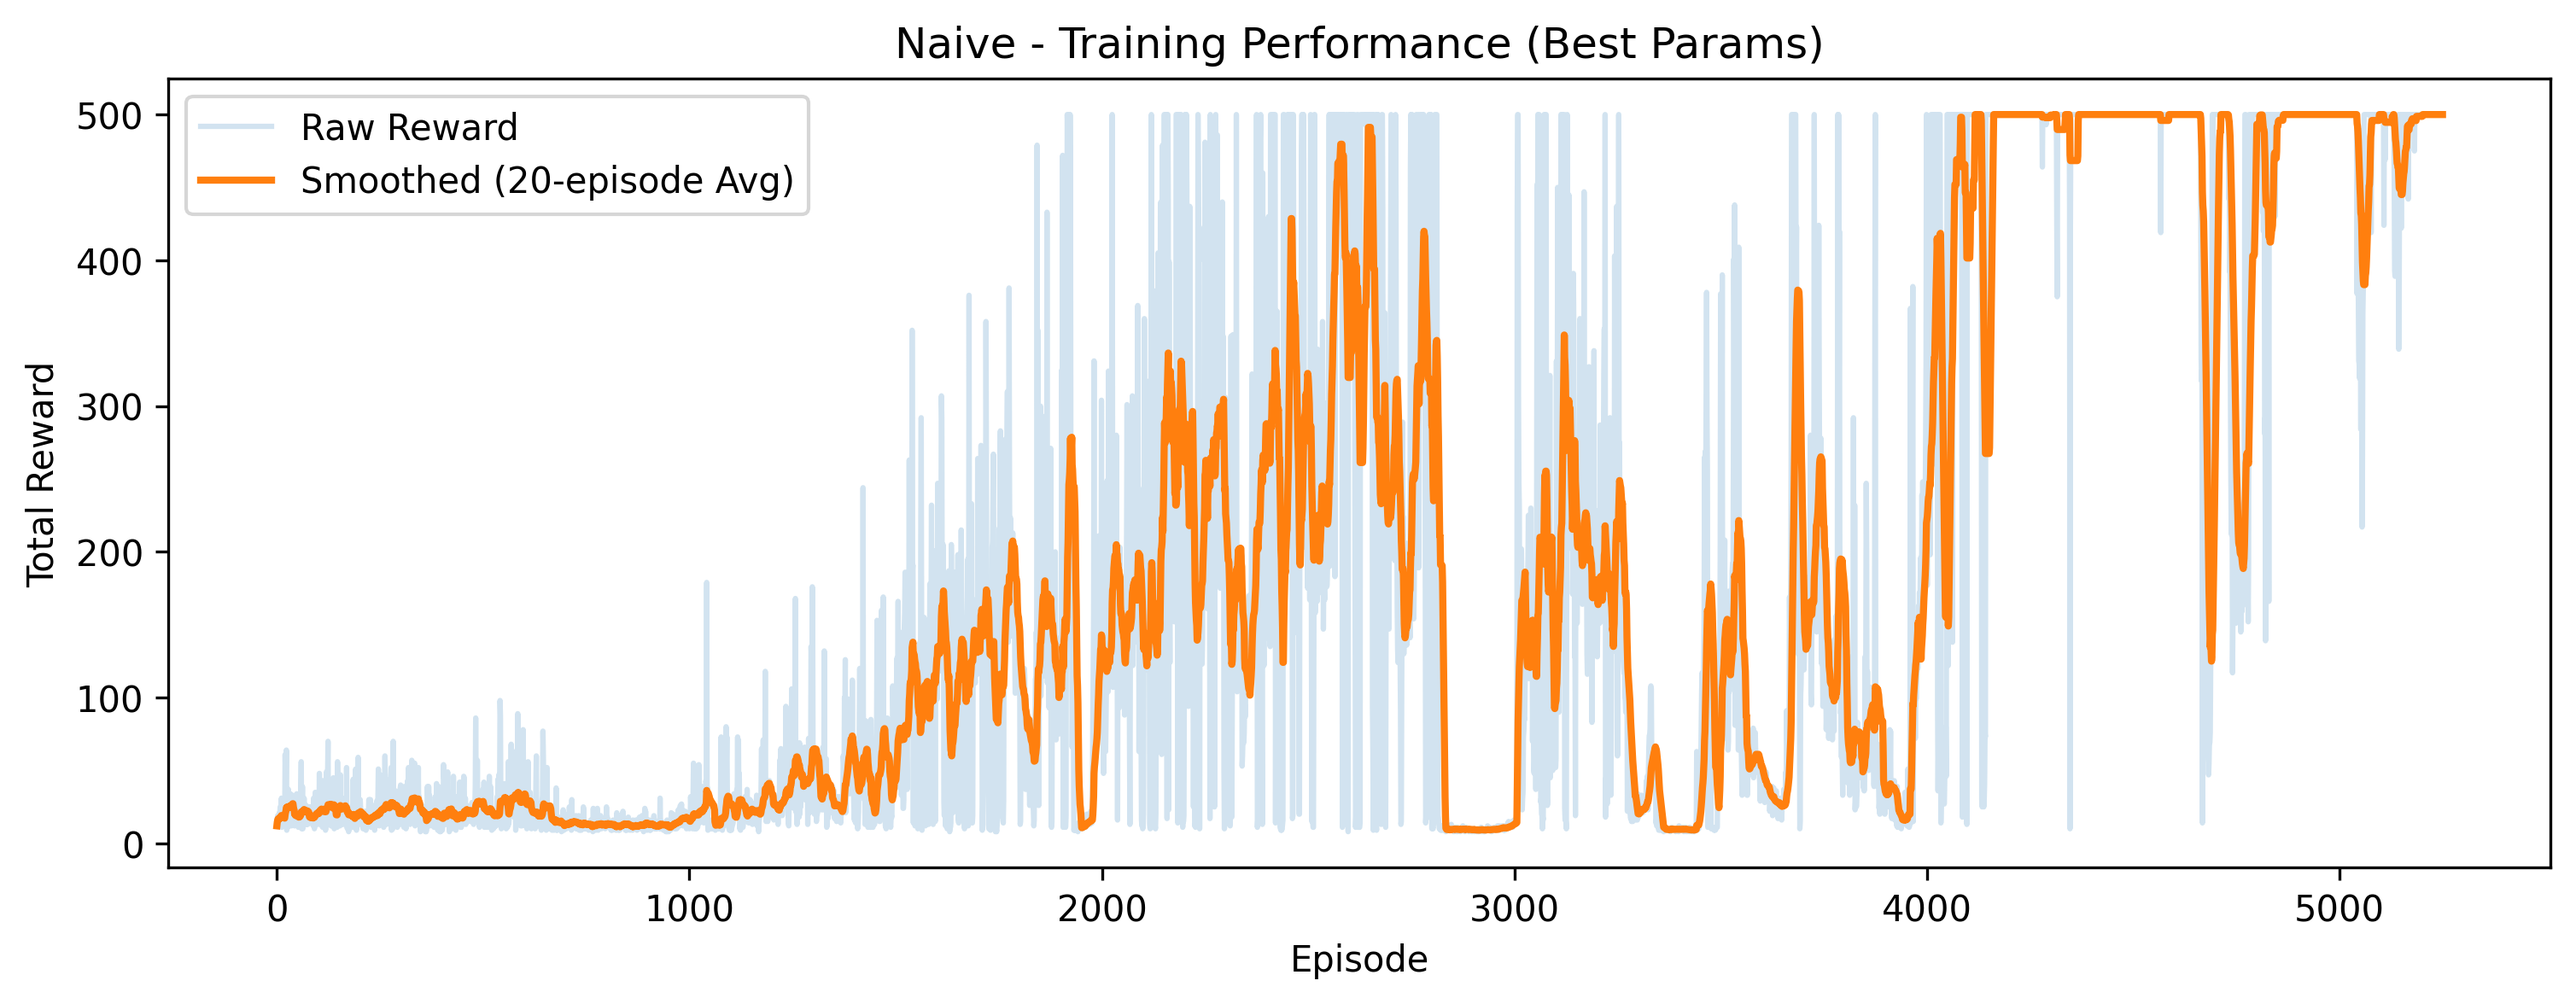
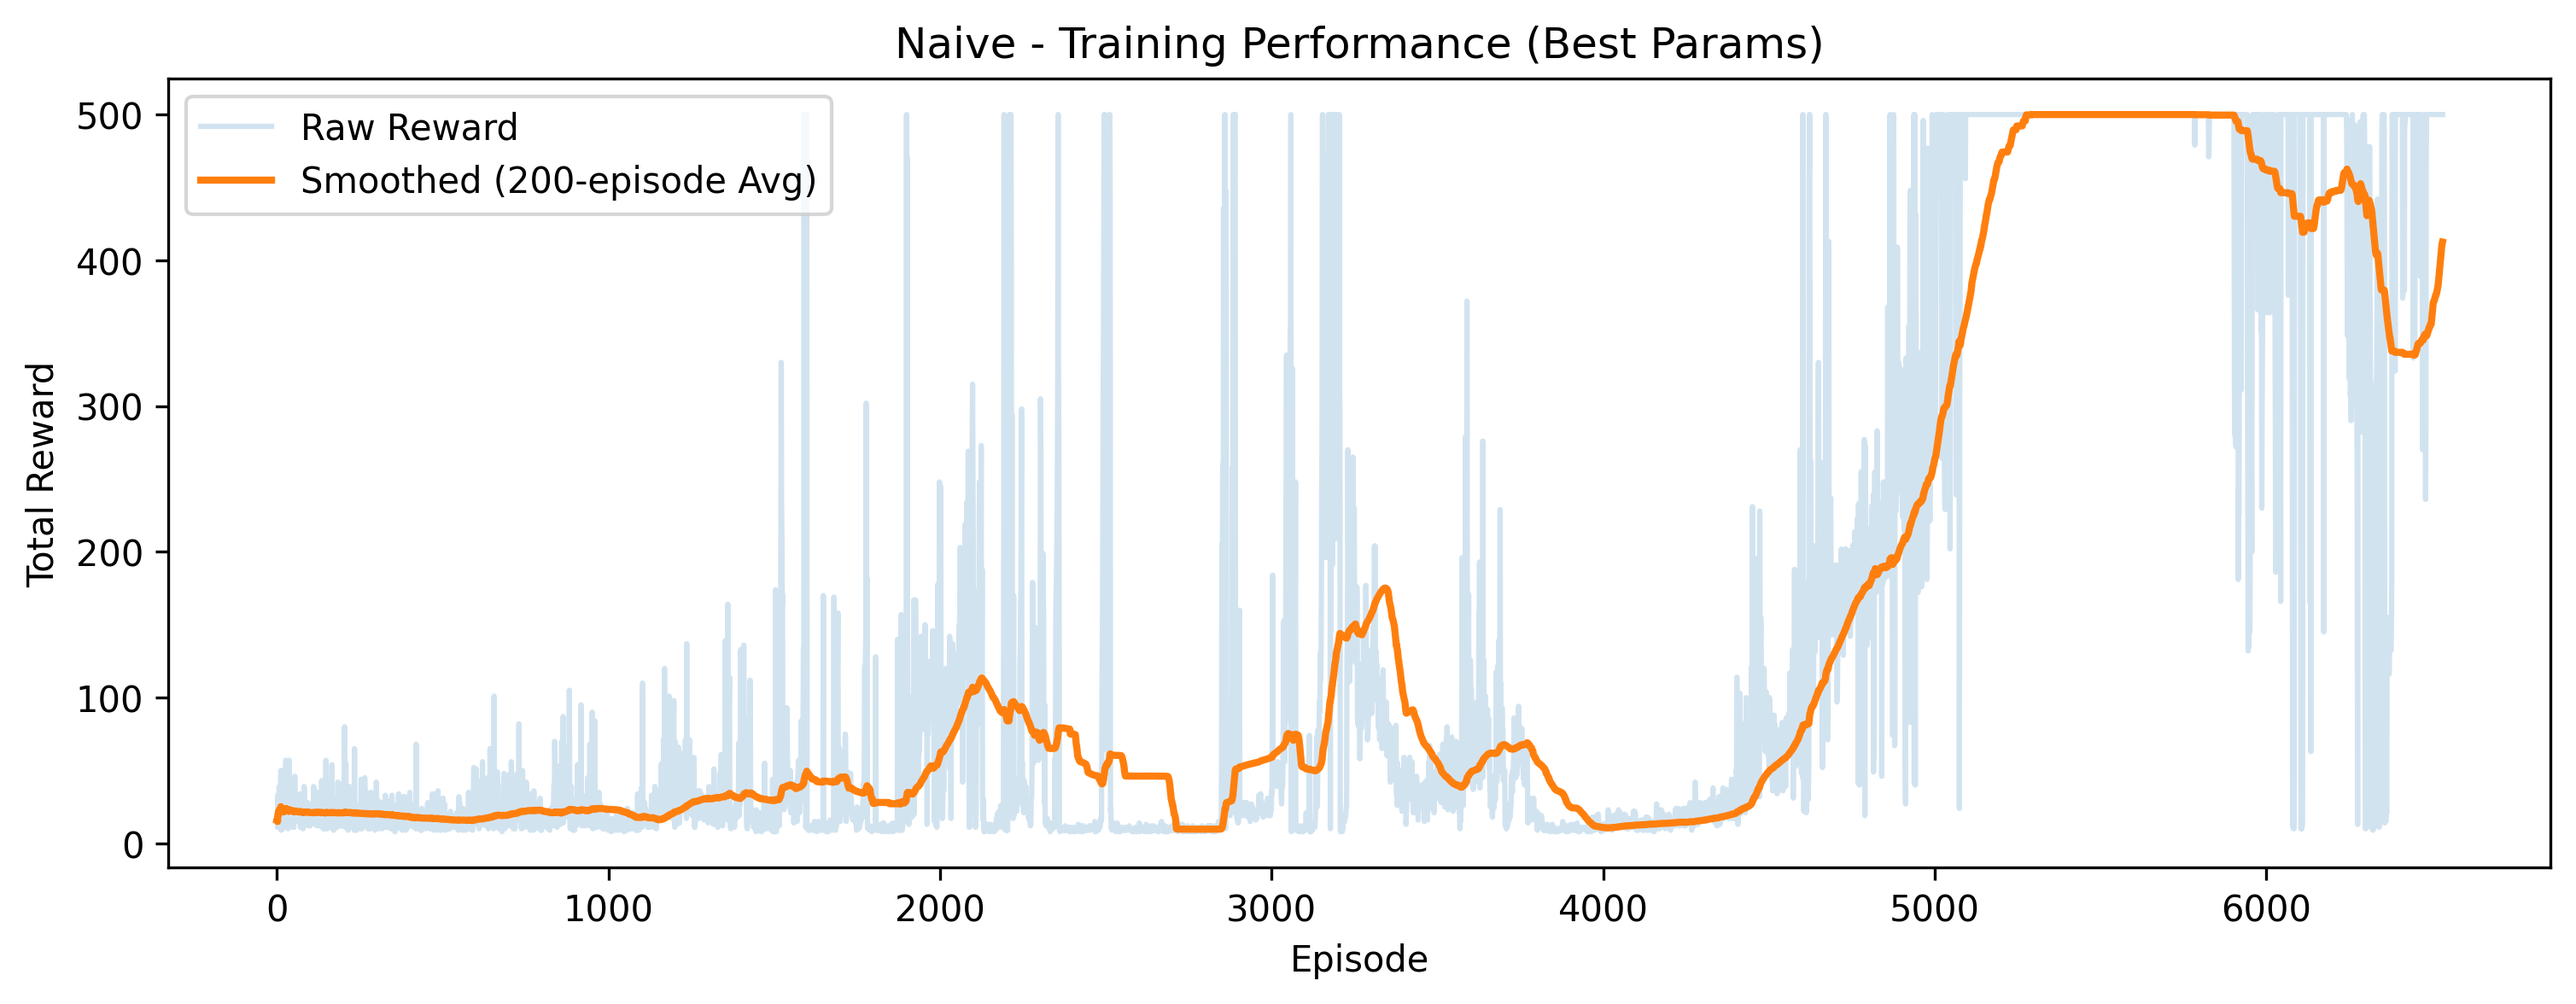
初始版本

diff --git a/TN_ER_run.py b/TN_ER_run.py
@@ -22,7 +22,7 @@ def train(config_name, use_target_net=False, use_replay_buffer=False):
         gamma=0.99,
         batch_size=128,
         buffer_size=10_000,
-        tau=0.01,                # 目标网络软更新系数
+        tau=0.1,                # 目标网络软更新系数
         epsilon_decay=0.999,      # 最佳ε衰减率
         epsilon_min=0.01,
         update_interval=4         # 最佳更新间隔（每4步更新一次）
@@ -58,7 +58,7 @@ def train(config_name, use_target_net=False, use_replay_buffer=False):
 
             # 定期打印进度（每10,000步）
             if step_count % 10_000 == 0:
-                current_avg = np.mean(episode_rewards[-20:]) if episode_rewards else 0
+                current_avg = np.mean(episode_rewards[-200:]) if episode_rewards else 0
                 print(f"{config_name} | Step {step_count} | Ep {episode} | ε={agent.epsilon:.3f} | Avg Reward={current_avg:.1f}")
 
         # 每个episode结束时更新ε
@@ -66,7 +66,7 @@ def train(config_name, use_target_net=False, use_replay_buffer=False):
 
         # 记录奖励并计算滑动平均
         episode_rewards.append(total_reward)
-        window_size = 20
+        window_size = 200
         avg = np.mean(episode_rewards[-window_size:]) if episode >= window_size else np.mean(episode_rewards)
         avg_rewards.append(avg)
         episode += 1
@@ -74,7 +74,7 @@ def train(config_name, use_target_net=False, use_replay_buffer=False):
     # 保存训练曲线
     plt.figure(figsize=(12, 4))
     plt.plot(episode_rewards, alpha=0.2, label="Raw Reward")
-    plt.plot(avg_rewards, linewidth=2, label="Smoothed (20-episode Avg)")
+    plt.plot(avg_rewards, linewidth=2, label="Smoothed (200-episode Avg)")
     plt.xlabel("Episode")
     plt.ylabel("Total Reward")
     plt.title(f"{config_name} - Training Performance (Best Params)")
@@ -88,9 +88,9 @@ def compare_configurations():
     """ 比较四种配置的性能（使用最佳参数）"""
     configurations = {
         # "Naive": {"use_target_net": False, "use_replay_buffer": False},
-        "Only TN": {"use_target_net": True, "use_replay_buffer": False},
-        # "Only ER": {"use_target_net": False, "use_replay_buffer": True},
-        # "TN & ER": {"use_target_net": True, "use_replay_buffer": True}
+        # "Only TN": {"use_target_net": True, "use_replay_buffer": False},
+        "Only ER": {"use_target_net": False, "use_replay_buffer": True},
+        "TN & ER": {"use_target_net": True, "use_replay_buffer": True}
     }
 
     results = {}
@@ -105,7 +105,7 @@ def compare_configurations():
         plt.plot(rewards, label=label, linewidth=2)
     
     plt.xlabel("Episode")
-    plt.ylabel("Smoothed Reward (20-episode Avg)")
+    plt.ylabel("Smoothed Reward (200-episode Avg)")
     plt.title("Performance Comparison with Best Parameters\n"
               "[LR=0.01, Update=4, Hidden=256, ε-decay=0.999]")
     plt.legend()

diff --git a/agent.py b/agent.py
@@ -51,14 +51,18 @@ class QLearningAgent:
     def update_epsilon(self):
         self.epsilon = max(self.epsilon * self.epsilon_decay, self.epsilon_min)
 
-    def update_target_network(self):
-        """软更新目标网络参数"""
-        if self.target_q_net:
-            for target_param, main_param in zip(self.target_q_net.parameters(), self.q_net.parameters()):
-                target_param.data.copy_(
-                    self.tau * main_param.data + (1.0 - self.tau) * target_param.data
-                )
+    # def update_target_network(self):
+    #     """软更新目标网络参数"""
+    #     if self.target_q_net:
+    #         for target_param, main_param in zip(self.target_q_net.parameters(), self.q_net.parameters()):
+    #             target_param.data.copy_(
+    #                 self.tau * main_param.data + (1.0 - self.tau) * target_param.data
+    #             )
 
+
+    def update_target_network(self):
+        self.target_q_net.load_state_dict(self.q_net.state_dict())
+        
     def train_step(self, state, action, reward, next_state, done):
         # 将经验添加到缓冲区（如果使用经验回放）
         if self.use_replay_buffer:
